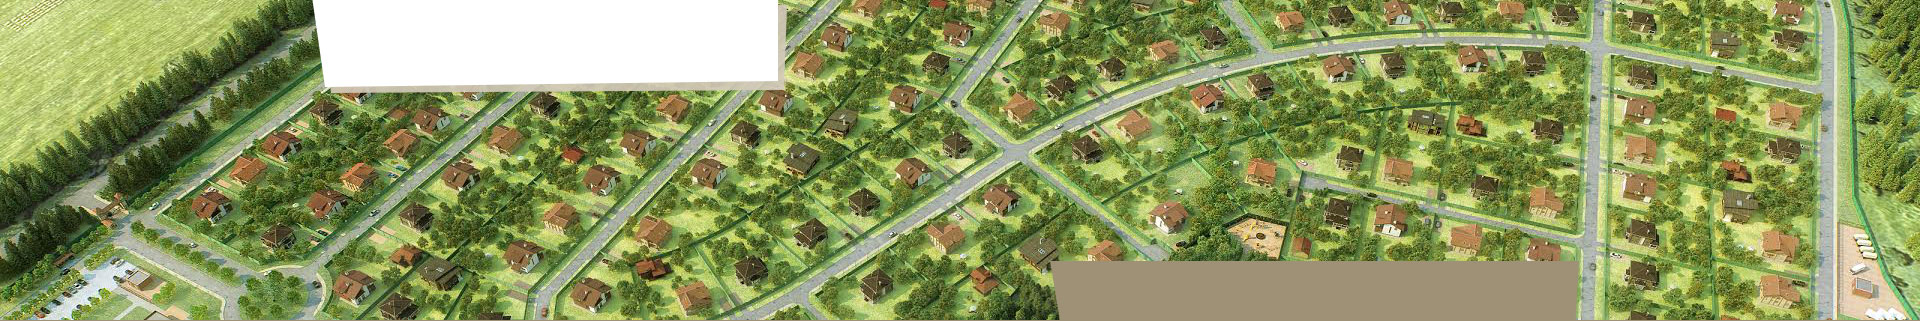
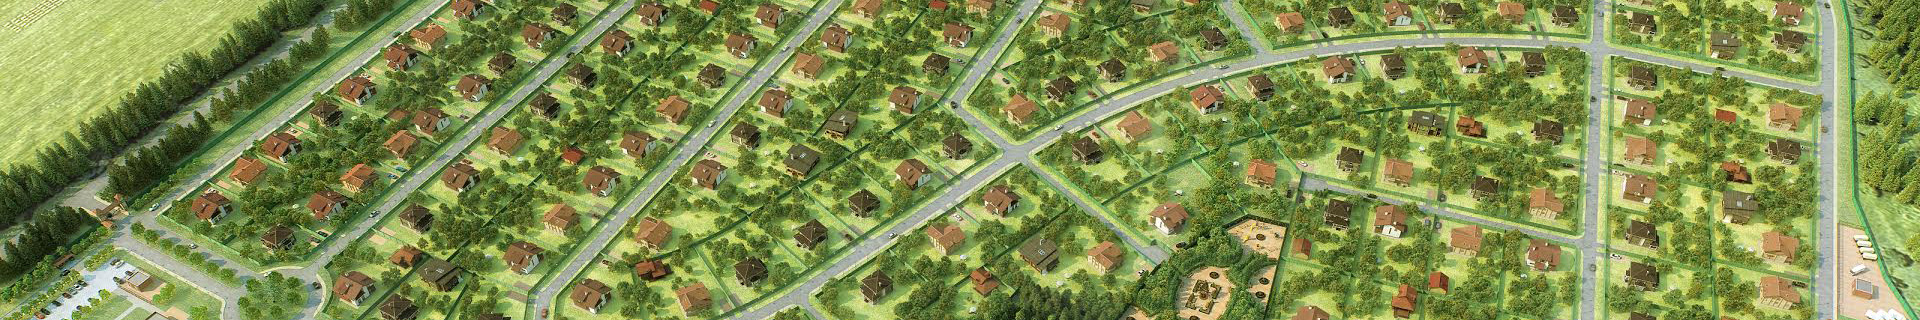
make changes

diff --git a/src/less/Components/Plan.less b/src/less/Components/Plan.less
@@ -1,7 +1,8 @@
 .plan {
     background: url(../images/plan.jpg) no-repeat;
     background-position: top center;
-    height: 321px;
+    height: 320px;
+    border-bottom: 1px solid #9d9d6e;
 
     .container {
         height: 321px;
@@ -11,17 +12,38 @@
         color: #323f15;
         font-size: 50px;
         position: absolute;
-        top: 4px;
-        left: 14px;
+        top: -15px;
+        left: 0;
+        background: url(../images/switcher-bg.png);
+        box-sizing: border-box;
+        display: block;
+        width: 476px;
+        height: 103px;
+        padding-top: 18px;
+        padding-left: 32px;
+
+        a {
+            width: 40px;
+            display: inline-block;
+            color: #323f15;
+            text-decoration: none;
+        }
     }
 
     .link {
+        display: block;
         font-size: 30px;
         color: white;
         font-style: italic;
         position: absolute;
-        bottom: 17px;
-        right: 69px;
+        bottom: 0;
+        right: 0;
         text-decoration: none;
+        background: url(../images/plan-caption-bg.png) no-repeat;
+        box-sizing: border-box;
+        width: 529px;
+        height: 91px;
+        padding-top: 26px;
+        text-align: center;
     }
 }

diff --git a/src/less/Components/Actions.less b/src/less/Components/Actions.less
@@ -1,9 +1,8 @@
 .row-actions {
     height: 250px;
-    background: url(../images/action-bg.jpg) no-repeat bottom right;
 
     .action-ribbon {
-        height: 181px;
+        height: 288px;
         background: url(../images/action-ribbon.png) no-repeat;
         background-size: contain;
         position: absolute;
@@ -14,23 +13,17 @@
         color: white;
         padding-top: 52px;
         padding-left: 402px;
-        letter-spacing: 5px;
+        letter-spacing: 3px;
+        text-transform: uppercase;
     }
 
-    .text-1 {
+    .text {
         position: absolute;
-        color: #d91d00;
-        font-size: 150px;
-        top: 56px;
-        left: 20px;
-    }
-
-    .text-2 {
-        position: absolute;
-        color: #d91d00;
+        color: #292929;
         font-size: 40px;
-        top: 87px;
-        left: 244px;
-        line-height: 36px;
+        top: 89px;
+        left: 419px;
+        text-align: center;
+        width: 600px;
     }
 }

diff --git a/src/templates/partials/how-to-buy.html b/src/templates/partials/how-to-buy.html
@@ -6,8 +6,8 @@
         </header>
 
         <div class="description">
-            Для Вас мы делаем уникальное предложение, которое не смогут повторить дачные поселки Подмосковья и Московской области!
-Вы ощутите себя единовластным хозяином <strong>VIP участка</strong> в «Солнечной долине». <strong>Решение за Вами!</strong>
+            Эталон подмосковной природы рядом с Вами! <br>
+            Уникальная возможность дышать чудесным лекарственным воздухом, любоваться лесными пейзажами или построить свой дом на берегу красивого озера - выбор за Вами!
         </div>
 
         <div class="how-to-buy-steps">

diff --git a/src/less/Components/Map.less b/src/less/Components/Map.less
@@ -1,5 +1,5 @@
 .map {
-    border-top: 5px solid #9e9176;
+    border-top: 5px solid #899dac;
     height: 720px;
     background: gray;
     position: relative;
@@ -8,9 +8,8 @@
         position: absolute;
         top: 0;
         left: 50%;
-        width: @container-width;
-        transform: translateX(-50%);
-        
+        width: 640px;
+        transform: translateX(-100%);
         height: 720px;
     }
 
@@ -47,11 +46,13 @@
             position: absolute;
             top: 115px;
             left: 123px;
+            width: 400px;
+            text-align: center;
         }
     }
 
     .description {
-        background: rgba(212, 229, 206, 0.78);
+        background: #d4e5ce;
         width: 640px;
         position: absolute;
         top: 107px;

diff --git a/src/less/Components/Footer.less b/src/less/Components/Footer.less
@@ -1,5 +1,5 @@
 .footer {
-    background: #9e9176;
+    background: #899dac;
     padding-top: 35px;
     color: #444444;
 
@@ -52,7 +52,7 @@
             position: absolute;
             top: 0;
             right: -50px;
-            border-right: 1px solid #93866c;
+            border-right: 1px solid #627889;
             width: 1px;
             height: 135px;
         }
@@ -60,7 +60,7 @@
 
     .footer-blocks {
         text-align: justify;
-        border-bottom: 1px solid #93866c;
+        border-bottom: 1px solid #627889;
 
         &:after {
             display: inline-block;
@@ -74,7 +74,6 @@
         font-size: 20px;
         line-height: 50px;
         font-weight: bold;
-        line-height: 50px;
     }
 }
 

diff --git a/src/less/Components/News.less b/src/less/Components/News.less
@@ -1,7 +1,7 @@
 .news {
     padding-top: 12px;
     padding-bottom: 15px;
-    border-bottom: 1px solid #9e9176;
+    border-bottom: 1px solid #899dac;
 
     .news-header {
         font-size: 50px;
@@ -17,7 +17,7 @@
 
     .all-news-btn {
         display: inline-block;
-        background: #9e9176;
+        background: #899dac;
         height: 50px;
         line-height: 50px;
         color: white;
@@ -82,7 +82,7 @@
 
                 .readmore-btn {
                     display: block;
-                    border: 1px solid #9e9176;
+                    border: 1px solid #899dac;
                     text-align: center;
                     font-size: 18px;
                     font-style: italic;

diff --git a/src/templates/partials/plan.html b/src/templates/partials/plan.html
@@ -1,6 +1,13 @@
-<div class="plan">
+<div id="plan" class="plan">
     <div class="container">
-        <div class="title">Солнечная долина</div>
+        <div id="plan-switcher" class="title">
+            Тишнево -
+            <a href="#" data-image="/images/plan.jpg">1</a>
+            | <span class="text-white">
+                    <a href="#" data-image="http://lorempixel.com/1920/320/abstract/1">2</a>
+                  | <a href="#" data-image="http://lorempixel.com/1920/320/abstract/2">3</a>
+                </span>
+        </div>
         <a href="#" class="link">посмотреть генеральный план</a>
     </div>
 </div>

diff --git a/src/templates/partials/actions.html b/src/templates/partials/actions.html
@@ -1,10 +1,13 @@
 <div class="container">
     <div class="row-actions">
         <div class="action-ribbon">
-            ГОРЯЧЕЕ СПЕЦПРЕДЛОЖЕНИЕ!
+            Снова осень! Снова ценопад
         </div>
 
-        <div class="text-1">-5%</div>
-        <div class="text-2">для <br> каждого <br> твоего <br> друга!</div>
+        <div class="text">
+            <span class="text-uppercased">Только 8 участков</span><br>
+            в жилом поселке «Тишнево – 1»<br>
+            по осенним специальным ценам!
+        </div>
     </div>
 </div>

diff --git a/src/less/Components/Forms.less b/src/less/Components/Forms.less
@@ -20,8 +20,8 @@
 }
 
 .form-input {
-    background: #d9d9cf;
-    border: 1px solid #9e9176;
+    background: #eaeadd;
+    border: 1px solid #899dac;
     border-radius: 0;
     width: 100%;
     height: 50px;
@@ -43,7 +43,7 @@
     cursor: pointer;
 
     &.btn-submit {
-        background: #9e9176;
+        background: #899dac;
         font-style: italic;
         font-size: 18px;
     }

diff --git a/src/templates/partials/map.html b/src/templates/partials/map.html
@@ -15,7 +15,7 @@
             <div class="titles">
                 <div class="inner">
                     <div class="title1">Как проехать в поселок</div>
-                    <div class="title2">“Солнечная долинa”?</div>
+                    <div class="title2">“Тишнево”?</div>
                 </div>
             </div>
         </div>

diff --git a/src/less/Components/HowToBuy.less b/src/less/Components/HowToBuy.less
@@ -1,5 +1,5 @@
 .how-to-buy {
-    background: #f9ebcf;
+    background: #fbfbd6;
     padding-bottom: 64px;
 
     .buy-header {
@@ -62,7 +62,7 @@
             position: absolute;
             top: 0;
             right: 0;
-            border-right: 3px dotted #cec1a6;
+            border-right: 3px dotted #d3cead;
             width: 3px;
             height: 86px;
         }

diff --git a/src/js/app.js b/src/js/app.js
@@ -54,3 +54,9 @@ callbackForm.populateErrors = (ajaxForm, errorsJson) => {
 let popupCallbackForm = new AjaxForm('#callback-popup-form', {
     autoHelpBlock: true
 });
+
+$('#plan-switcher').on('click', '[data-image]', event => {
+    let $link = $(event.target);
+    $('#plan').css('background-image', `url(${$link.data('image')})`);
+    event.preventDefault();
+});
